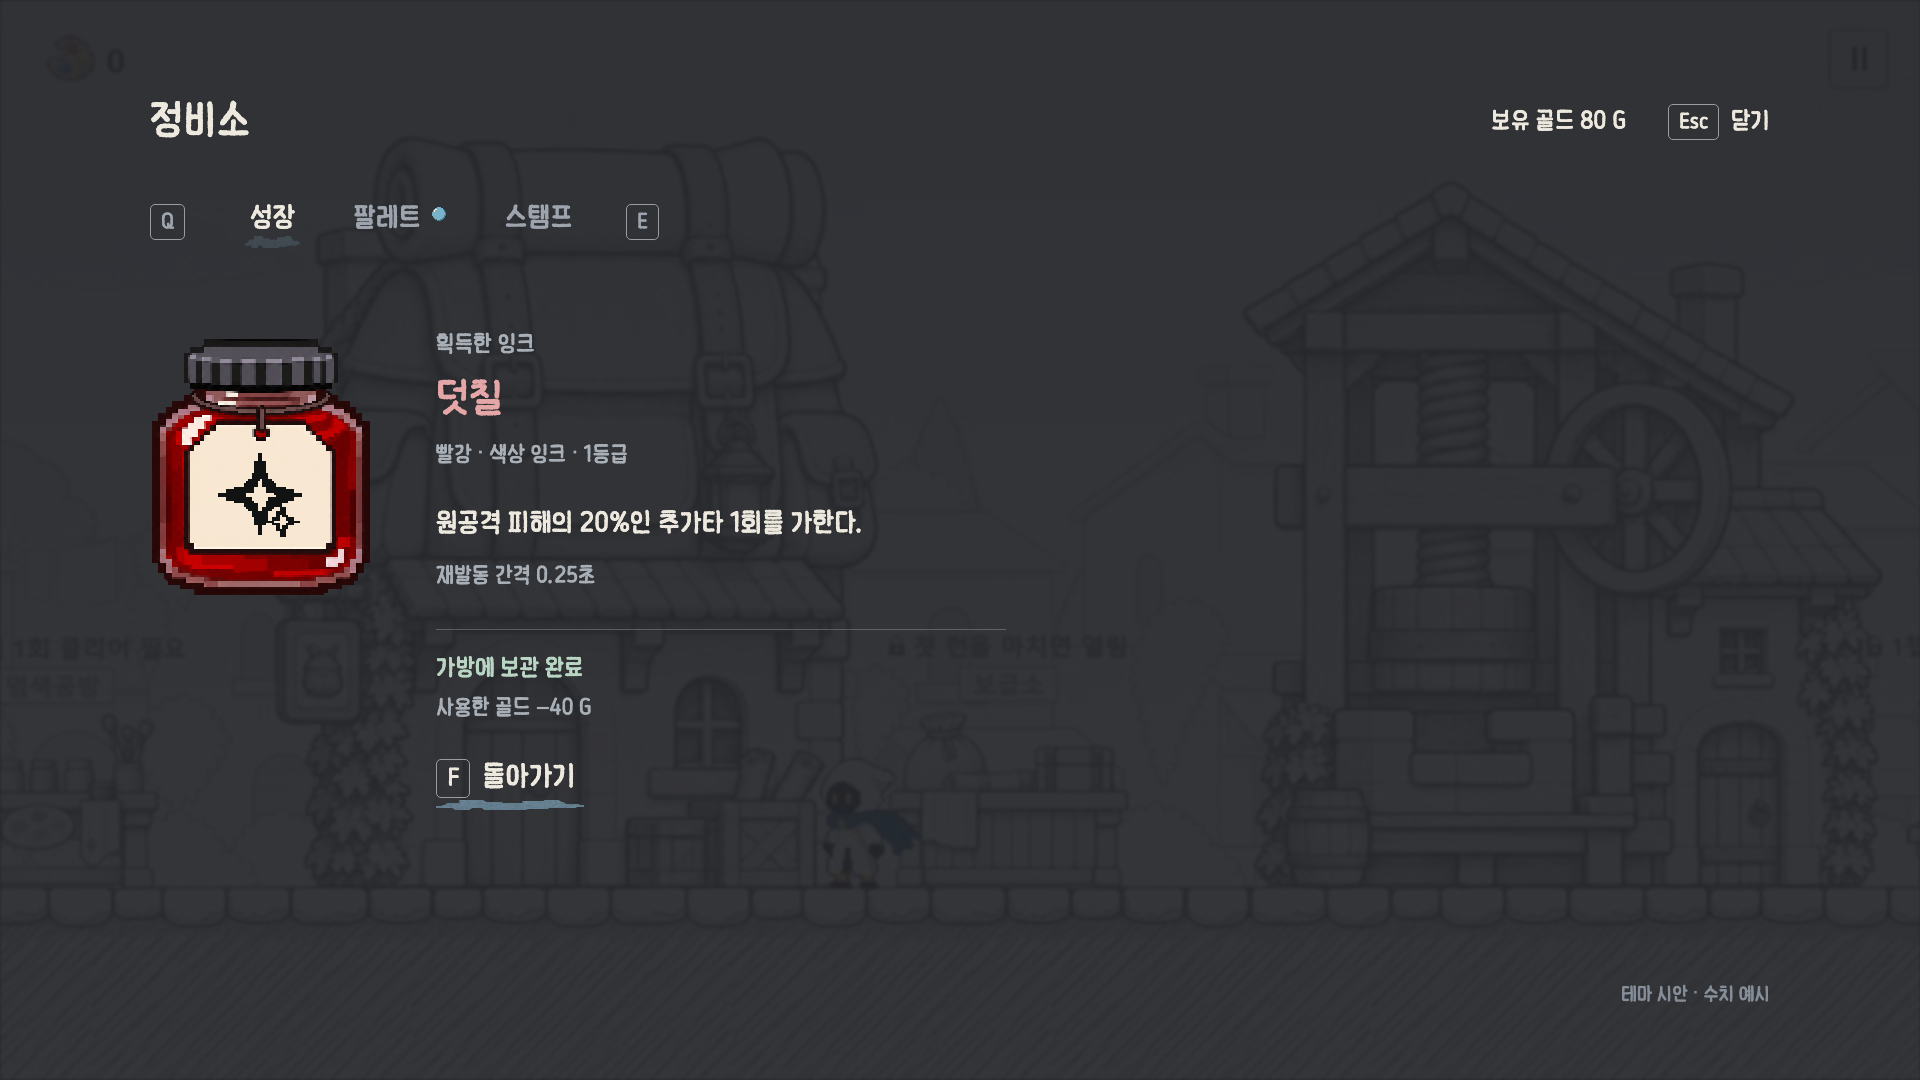
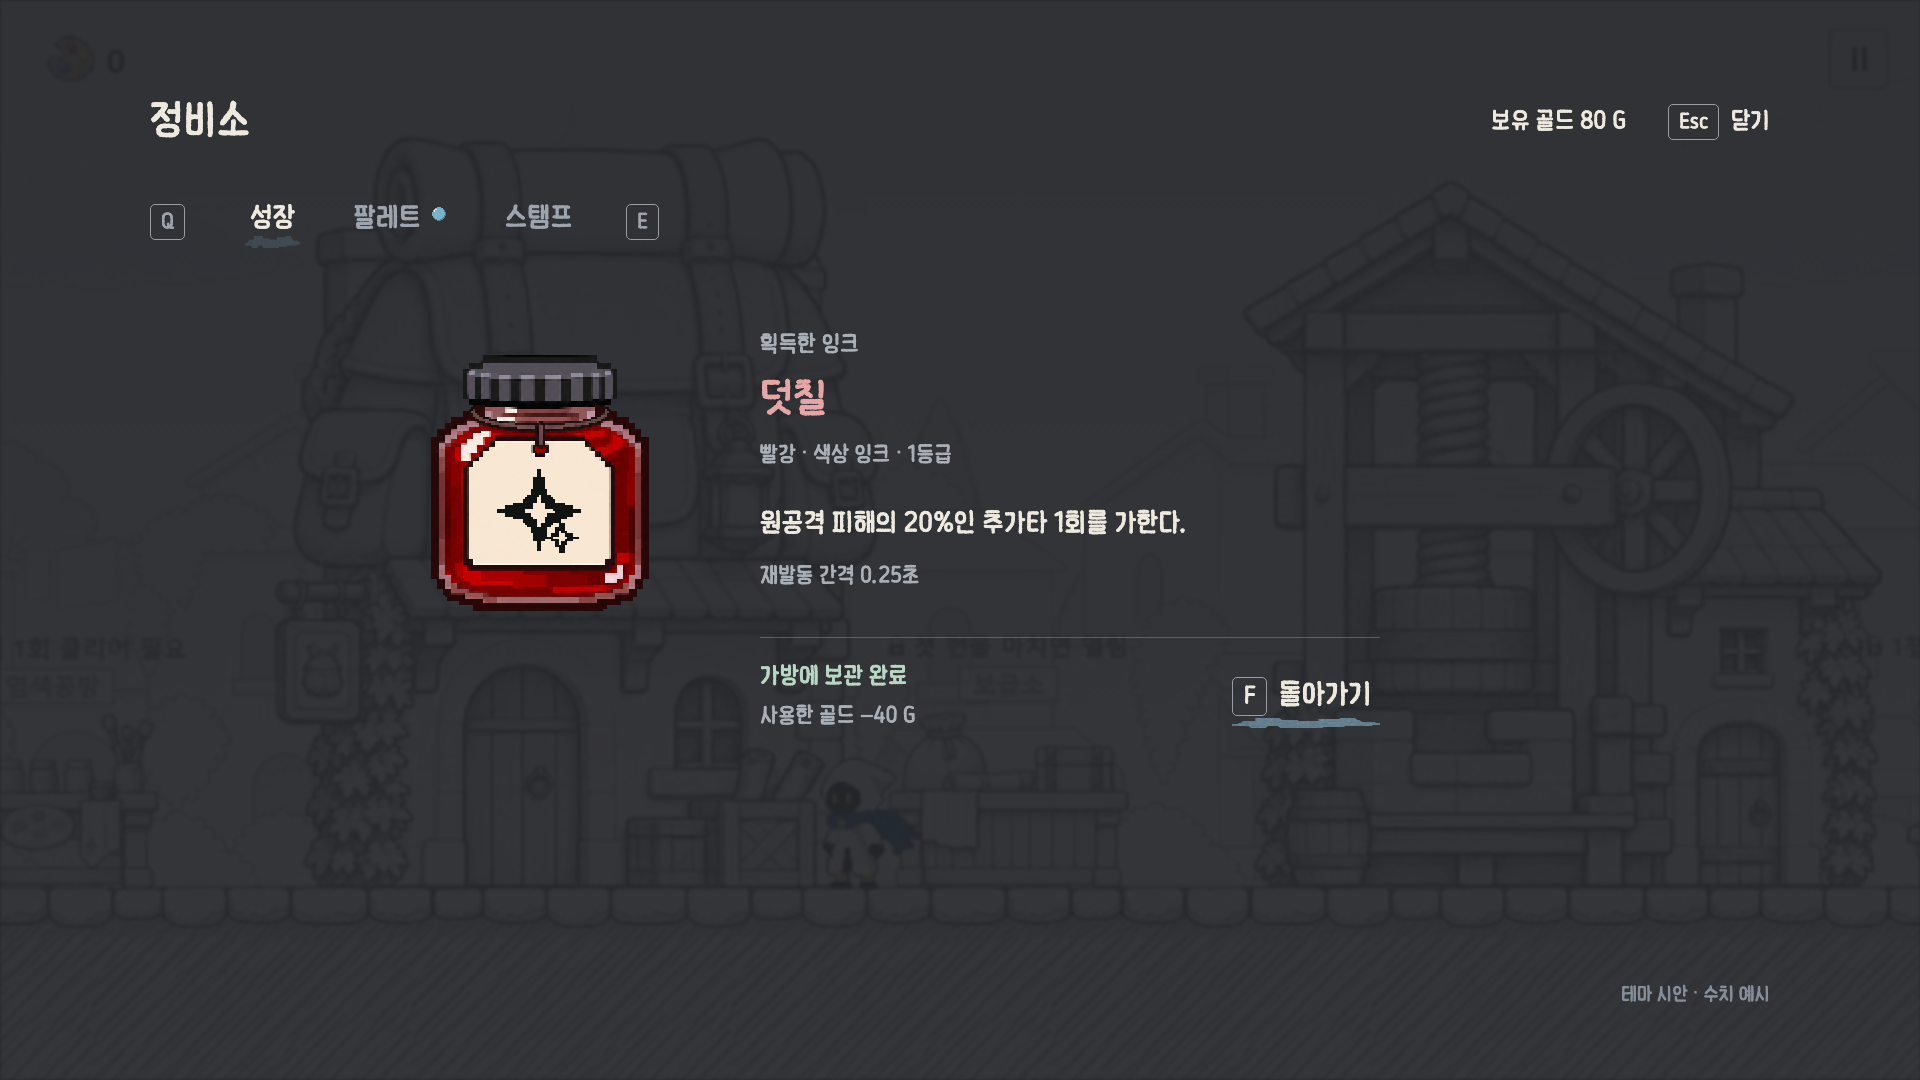
Restore reward screen balance while retaining grouped feedback

diff --git a/ui/work/theme/ink-pixel-v1/maintenance-set-v1/index.html b/ui/work/theme/ink-pixel-v1/maintenance-set-v1/index.html
@@ -1,6 +1,6 @@
 <!doctype html><html lang="ko"><meta charset="utf-8"><title>Deviant 정비소 테마</title><style>
 @font-face{font-family:Kkuk;src:url(../assembly-v1/fonts/MemomentKkukkukk.ttf)}*{box-sizing:border-box}body{margin:0;background:#25272c;color:#eee9df;font-family:Kkuk,sans-serif}button{font:inherit;color:inherit;cursor:pointer;border:0;background:none;text-align:left}button:focus-visible{outline:2px solid #9ac7d7;outline-offset:8px}.screen{width:1920px;height:1080px;position:relative;transform-origin:0 0;overflow:hidden}.world{position:absolute;inset:0;background:linear-gradient(#24262bf0,#24262bea),url(assets/village.jpg) center/cover;filter:blur(1px)}main{position:relative;margin:0 150px;padding-top:85px}header{height:72px;display:flex;align-items:center;gap:28px}h1{font-size:43px;font-weight:normal;margin:0}header .meta{font-size:23px;color:#a7adb5}header .right{margin-left:auto;display:flex;align-items:center;gap:42px;font-size:25px}kbd{font:inherit;font-size:22px;border:1px solid #999da3;border-radius:5px;padding:4px 10px;margin-right:12px}nav{display:flex;gap:48px;align-items:center;margin-top:44px;font-size:29px;color:#9da4ae}nav button{padding:0 5px 8px}nav .active{color:#eee9df}.swash{position:relative}.swash:after{content:'';position:absolute;height:12px;bottom:-5px;left:0;right:0;background:url(assets/selection-swash.png) center/100% 100% no-repeat}nav .new{color:#9ac7d7;font-size:19px;margin-left:12px}.layout{display:grid;grid-template-columns:710px 1fr;gap:122px;margin-top:55px}.choices{display:flex;flex-direction:column;gap:28px}.choice{width:100%;height:132px;display:flex;align-items:center;gap:28px;padding:10px 8px;border-bottom:1px solid #a3a6a82d}.choice .icon{width:96px;height:96px;object-fit:contain;image-rendering:pixelated}.choice h2{font-size:32px;font-weight:normal;margin:0 0 10px}.choice p{font-size:23px;color:#a8afb6;margin:0}.price{margin-left:auto;font-size:30px}.choice.selected h2{color:#a7ced8}.choice.selected{border-bottom:0}.slot-icon{width:96px;height:76px;position:relative;flex-shrink:0}.slot-icon img{position:absolute;width:96px;height:68px;image-rendering:pixelated}.label{color:#a8afb6;font-size:24px;margin:0 0 24px}.hero{display:flex;align-items:center;gap:32px;min-height:180px}.hero img{width:144px;height:166px;object-fit:contain;image-rendering:pixelated}.hero h2{font-size:40px;font-weight:normal;margin:0 0 20px}.hero p{font-size:24px;color:#a8afb6;margin:0}.rule{height:1px;background:#a3a6a842;margin:28px 0}.body{font-size:28px;line-height:1.65;margin:0}.muted{color:#a8afb6}.detailrow{display:flex;justify-content:space-between;font-size:25px;margin-top:22px}.next{font-size:23px;color:#a8afb6;margin-top:12px}.action{display:block;width:max-content;max-width:100%;margin-top:38px;padding:18px 0;font-size:30px;position:relative}.action:after{content:'';position:absolute;bottom:0;height:10px;left:0;right:0;background:url(assets/selection-swash.png) left/100% 100% no-repeat}.action kbd{font-size:25px}.foot{position:absolute;left:150px;right:150px;bottom:74px;display:flex;gap:30px;font-size:23px;color:#adb4bc}.foot .note{margin-left:auto;color:#858e98;font-size:20px}.result{display:grid;grid-template-columns:650px 1fr;gap:120px;margin-top:56px}.resultVisual{display:flex;align-items:center;justify-content:center;flex-direction:column;min-height:430px}.resultVisual>img{width:222px;height:256px;image-rendering:pixelated}.resultVisual .caption{font-size:24px;color:#9ac7d7;margin-top:30px}.result h2{font-weight:normal;font-size:43px;color:#e5a6a7;margin:0 0 12px}.receipt{margin-top:28px;display:flex;justify-content:space-between;font-size:26px}.status{font-size:27px;color:#b9d6c4;margin:28px 0 0}.small{font-size:23px}.disabled{opacity:.45}button:hover{color:#fff}
-.resultInfo{max-width:650px;padding-top:22px}.result .rule{margin:30px 0}.result .body{max-width:570px}.resultSummary{margin-top:36px;display:flex;align-items:center;gap:28px}.resultSummary .status{margin:0;font-size:25px}.spent{font-size:21px}.result .action{margin-top:34px;padding:14px 8px 16px}.resultVisual{min-height:490px}.resultOutcome{margin-top:64px;padding-top:28px;border-top:1px solid #a8afb660;display:flex;justify-content:space-between;align-items:center;gap:32px}.resultOutcome .resultSummary{margin:0;display:flex;flex-direction:column;align-items:flex-start;gap:12px}.resultOutcome .action{margin:0;flex-shrink:0}.resultOutcome .status{font-size:25px;color:#b9d6c4}.resultOutcome .spent{font-size:23px}.result{width:1040px;margin:88px auto 0;grid-template-columns:280px 1fr;column-gap:72px;row-gap:48px;align-items:center}.resultVisual{min-height:0}.resultInfo{padding:0;max-width:none}.resultInfo .label{margin:0 0 16px}.resultInfo .small{margin:16px 0 0}.resultInfo .rule{margin:24px 0}.resultOutcome{grid-column:1/-1;margin:0;padding-top:24px}.resultOutcome .resultSummary{gap:10px}.result-left .result{margin-left:0;margin-right:auto}.result-left .resultVisual{align-items:flex-start}.screen.result-view .result{width:936px;margin-left:0;margin-right:auto;grid-template-columns:222px 1fr;column-gap:64px;align-items:start}.result-view .resultVisual{align-items:flex-start;padding-top:8px}.result-view .resultInfo .body{margin-top:32px}.result-view .resultOutcome{display:block;margin-top:40px;padding-top:24px;max-width:570px}.result-view .resultOutcome .action{margin-top:24px;padding-left:0}.result-view nav .active:after{opacity:.3}.result-view .action:after{opacity:0}.result-view .action:focus:after,.result-view .action:hover:after{opacity:1}.result-view .action:focus-visible{outline:none}.new-dot{display:inline-block;width:16px;height:16px;background:url(assets/new-item-dot.png) center/16px 16px no-repeat;image-rendering:pixelated;margin-left:10px;vertical-align:top;margin-top:5px}</style><div class="screen"><div class="world"></div><main><header><h1>정비소</h1><div class="right"><span id="gold"></span><span><kbd>Esc</kbd>닫기</span></div></header><nav><kbd>Q</kbd><button class="active swash" onclick="location.search='?view=growth'">성장</button><button>팔레트<span id="badge"></span></button><button>스탬프</button><kbd>E</kbd></nav><div id="content"></div></main><div class="foot"><span id="keys"></span><span class="note">테마 시안 · 수치 예시</span></div></div>
+.resultInfo{max-width:650px;padding-top:22px}.result .rule{margin:30px 0}.result .body{max-width:570px}.resultSummary{margin-top:36px;display:flex;align-items:center;gap:28px}.resultSummary .status{margin:0;font-size:25px}.spent{font-size:21px}.result .action{margin-top:34px;padding:14px 8px 16px}.resultVisual{min-height:490px}.resultOutcome{margin-top:64px;padding-top:28px;border-top:1px solid #a8afb660;display:flex;justify-content:space-between;align-items:center;gap:32px}.resultOutcome .resultSummary{margin:0;display:flex;flex-direction:column;align-items:flex-start;gap:12px}.resultOutcome .action{margin:0;flex-shrink:0}.resultOutcome .status{font-size:25px;color:#b9d6c4}.resultOutcome .spent{font-size:23px}.result{width:1040px;margin:88px auto 0;grid-template-columns:280px 1fr;column-gap:72px;row-gap:48px;align-items:center}.resultVisual{min-height:0}.resultInfo{padding:0;max-width:none}.resultInfo .label{margin:0 0 16px}.resultInfo .small{margin:16px 0 0}.resultInfo .rule{margin:24px 0}.resultOutcome{grid-column:1/-1;margin:0;padding-top:24px}.resultOutcome .resultSummary{gap:10px}.result-left .result{margin-left:0;margin-right:auto}.result-left .resultVisual{align-items:flex-start}.screen.result-view .result{width:1120px;margin-left:auto;margin-right:auto;grid-template-columns:280px 1fr;column-gap:80px;align-items:start}.result-view .resultVisual{align-items:center;padding-top:24px}.result-view .resultInfo .body{margin-top:32px}.result-view .resultOutcome{display:flex;justify-content:space-between;align-items:center;gap:40px;margin-top:48px;padding-top:24px;max-width:620px}.result-view .resultOutcome .action{margin-top:0;padding-left:0}.result-view nav .active:after{opacity:.3}.result-view .action:after{opacity:0}.result-view .action:focus:after,.result-view .action:hover:after{opacity:1}.result-view .action:focus-visible{outline:none}.new-dot{display:inline-block;width:16px;height:16px;background:url(assets/new-item-dot.png) center/16px 16px no-repeat;image-rendering:pixelated;margin-left:10px;vertical-align:top;margin-top:5px}</style><div class="screen"><div class="world"></div><main><header><h1>정비소</h1><div class="right"><span id="gold"></span><span><kbd>Esc</kbd>닫기</span></div></header><nav><kbd>Q</kbd><button class="active swash" onclick="location.search='?view=growth'">성장</button><button>팔레트<span id="badge"></span></button><button>스탬프</button><kbd>E</kbd></nav><div id="content"></div></main><div class="foot"><span id="keys"></span><span class="note">테마 시안 · 수치 예시</span></div></div>
 <script>
 let result=new URLSearchParams(location.search).get('view')==='result';let selected=new URLSearchParams(location.search).get('item')||'draw';
 const options={draw:{name:'잉크 뽑기',desc:'색상 잉크 1개 · 무작위',price:'40 G',next:'다음 뽑기 60 G',img:'ink3_red_01-jar.png',body:'무작위 색상 잉크를 하나 얻습니다.',extra:'가방 빈 칸 3',hint:'가방이 가득 차면 뽑을 수 없습니다.',action:'뽑기 · 40 G'},attack:{name:'공격 강화',desc:'두 무기 공격력 강화',price:'60 G',next:'다음 강화 90 G',img:'weapon-base_sword.png',body:'두 무기의 공격력을 강화합니다.',extra:'Lv 1 → Lv 2',hint:'공격력 +5% · 이번 런에 적용',action:'길게 눌러 강화 · 60 G'},slot:{name:'슬롯 강화',desc:'팔레트 칸을 골라 강화',price:'선택',next:'선택한 칸에 따라 비용이 표시됩니다.',img:'filled-red.png',body:'강화할 팔레트 칸을 선택합니다.',extra:'무기별 팔레트 관리',hint:'칸을 선택한 뒤 효과와 비용을 확인합니다.',action:'팔레트 관리로'}};
